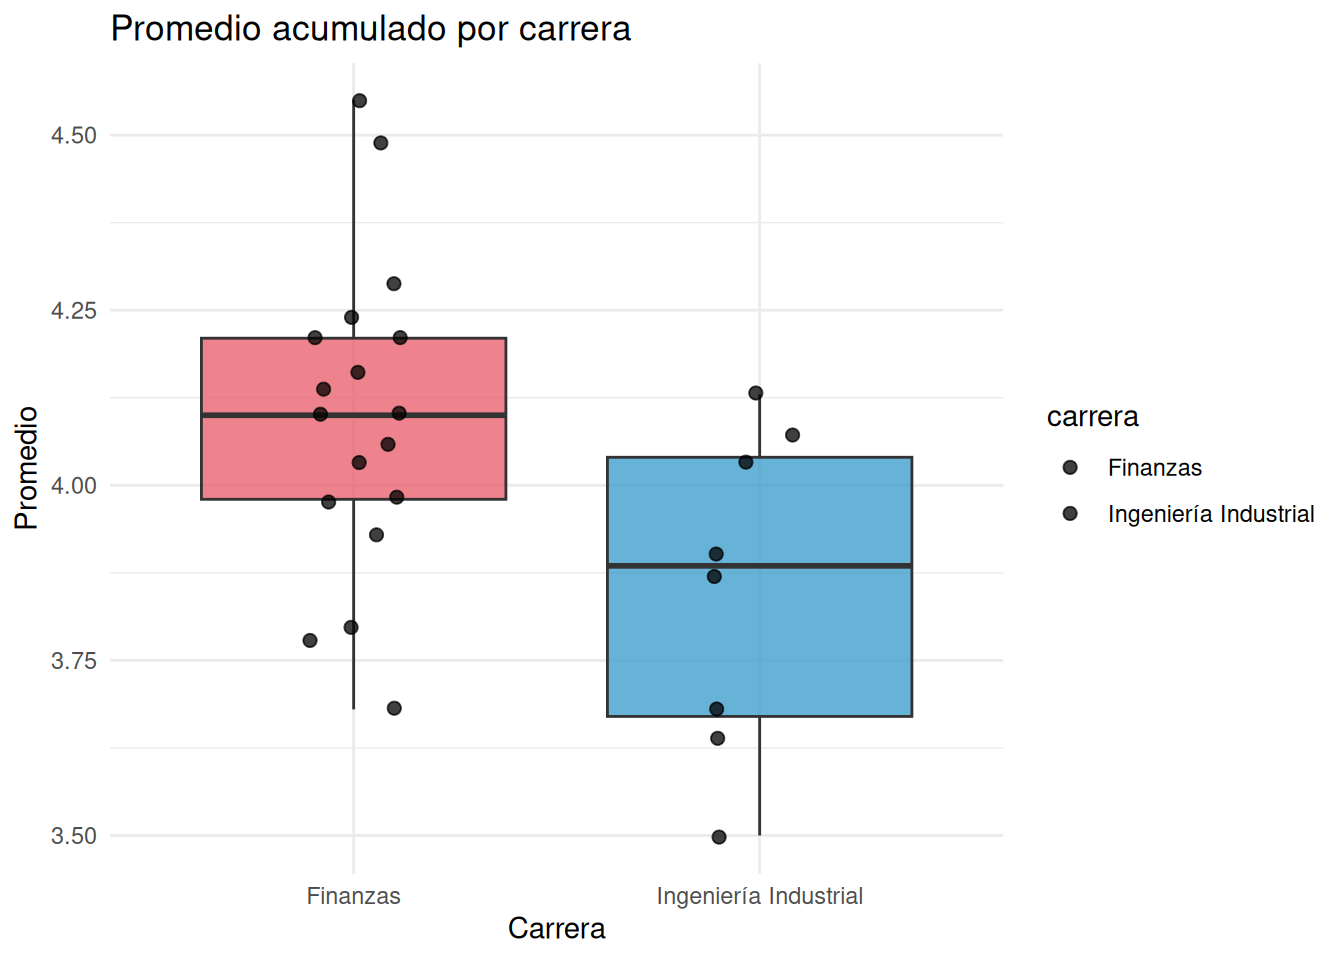
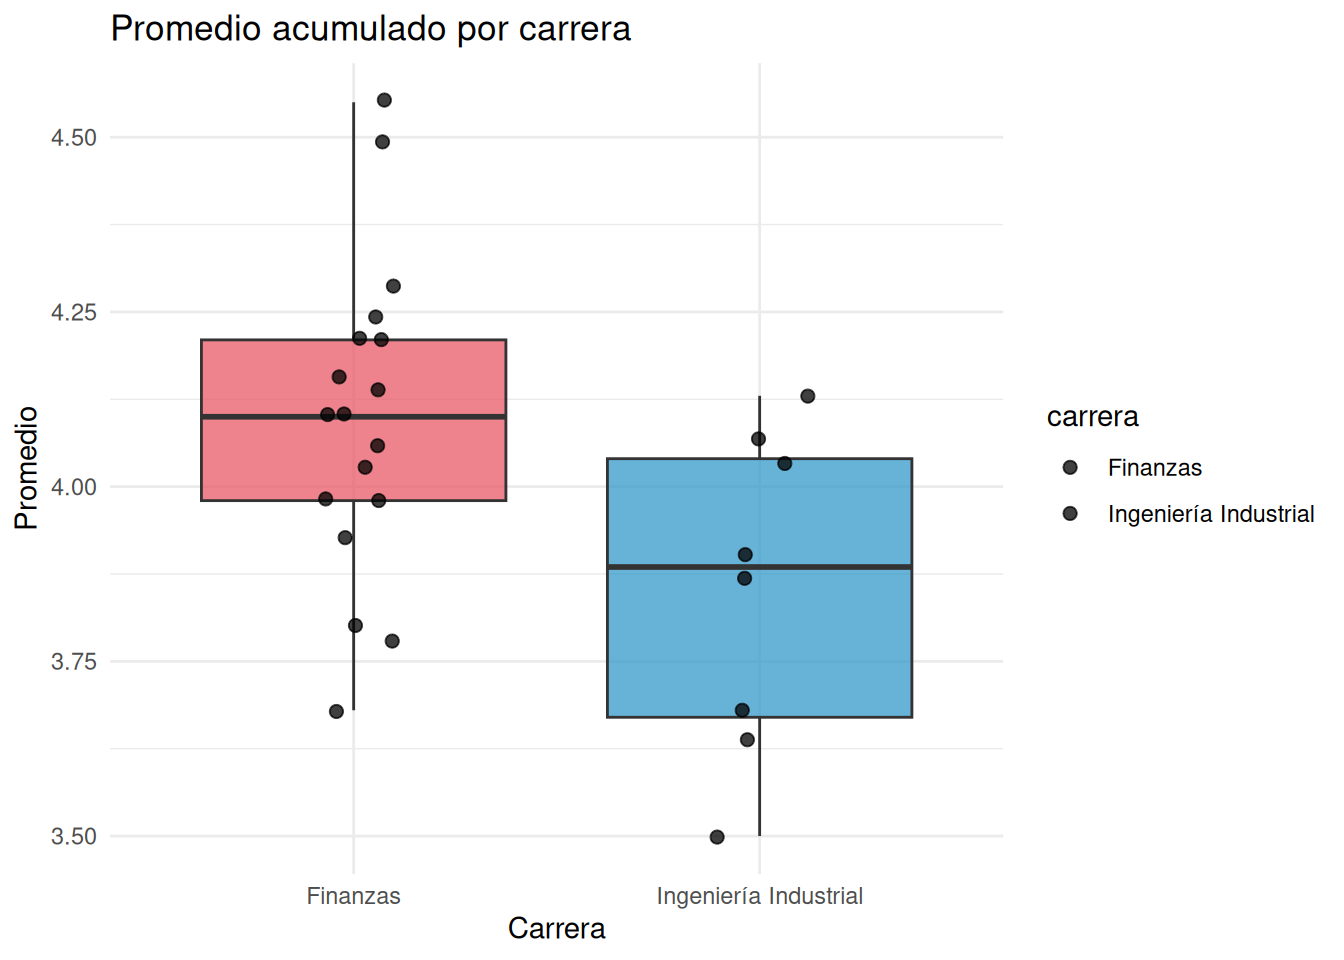
primera version 3

diff --git a/docs/basesdatos.html b/docs/basesdatos.html
@@ -423,8 +423,9 @@ largo y ancho de pétalos + especies: setosa, versicolor y virginica.
 Base de datos estadísticos se estructura mediante arreglo de filas y
 columnas (matriz) donde por lo general las columnas representan las
 variables y las filas los registros de los objetos de estudio</p>
-<em>Una base de datos es un conjunto de datos pertenecientes a un mismo
-contexto y almacenados sistemáticamente para su posterior uso.</em>
+<p><em>Una base de datos es un conjunto de datos pertenecientes a un
+mismo contexto y almacenados sistemáticamente para su posterior
+uso.</em></p>
 <div class="box2">
 <p>Wikipedia</p>
 <p>Una base de datos en estadística es un conjunto de información
@@ -481,8 +482,8 @@ Global Biodiversity Information Facility (GBIF)</a></p></li>
 <pre class="r"><code>data(iris)
 library(DT)
 DT::datatable(head(iris, 150),fillContainer = FALSE, options = list(pageLength = 8))</code></pre>
-<div class="datatables html-widget html-fill-item" id="htmlwidget-d6ad9c677977e4fc373c" style="width:100%;height:auto;"></div>
-<script type="application/json" data-for="htmlwidget-d6ad9c677977e4fc373c">{"x":{"filter":"none","vertical":false,"fillContainer":false,"data":[["1","2","3","4","5","6","7","8","9","10","11","12","13","14","15","16","17","18","19","20","21","22","23","24","25","26","27","28","29","30","31","32","33","34","35","36","37","38","39","40","41","42","43","44","45","46","47","48","49","50","51","52","53","54","55","56","57","58","59","60","61","62","63","64","65","66","67","68","69","70","71","72","73","74","75","76","77","78","79","80","81","82","83","84","85","86","87","88","89","90","91","92","93","94","95","96","97","98","99","100","101","102","103","104","105","106","107","108","109","110","111","112","113","114","115","116","117","118","119","120","121","122","123","124","125","126","127","128","129","130","131","132","133","134","135","136","137","138","139","140","141","142","143","144","145","146","147","148","149","150"],[5.1,4.9,4.7,4.6,5,5.4,4.6,5,4.4,4.9,5.4,4.8,4.8,4.3,5.8,5.7,5.4,5.1,5.7,5.1,5.4,5.1,4.6,5.1,4.8,5,5,5.2,5.2,4.7,4.8,5.4,5.2,5.5,4.9,5,5.5,4.9,4.4,5.1,5,4.5,4.4,5,5.1,4.8,5.1,4.6,5.3,5,7,6.4,6.9,5.5,6.5,5.7,6.3,4.9,6.6,5.2,5,5.9,6,6.1,5.6,6.7,5.6,5.8,6.2,5.6,5.9,6.1,6.3,6.1,6.4,6.6,6.8,6.7,6,5.7,5.5,5.5,5.8,6,5.4,6,6.7,6.3,5.6,5.5,5.5,6.1,5.8,5,5.6,5.7,5.7,6.2,5.1,5.7,6.3,5.8,7.1,6.3,6.5,7.6,4.9,7.3,6.7,7.2,6.5,6.4,6.8,5.7,5.8,6.4,6.5,7.7,7.7,6,6.9,5.6,7.7,6.3,6.7,7.2,6.2,6.1,6.4,7.2,7.4,7.9,6.4,6.3,6.1,7.7,6.3,6.4,6,6.9,6.7,6.9,5.8,6.8,6.7,6.7,6.3,6.5,6.2,5.9],[3.5,3,3.2,3.1,3.6,3.9,3.4,3.4,2.9,3.1,3.7,3.4,3,3,4,4.4,3.9,3.5,3.8,3.8,3.4,3.7,3.6,3.3,3.4,3,3.4,3.5,3.4,3.2,3.1,3.4,4.1,4.2,3.1,3.2,3.5,3.6,3,3.4,3.5,2.3,3.2,3.5,3.8,3,3.8,3.2,3.7,3.3,3.2,3.2,3.1,2.3,2.8,2.8,3.3,2.4,2.9,2.7,2,3,2.2,2.9,2.9,3.1,3,2.7,2.2,2.5,3.2,2.8,2.5,2.8,2.9,3,2.8,3,2.9,2.6,2.4,2.4,2.7,2.7,3,3.4,3.1,2.3,3,2.5,2.6,3,2.6,2.3,2.7,3,2.9,2.9,2.5,2.8,3.3,2.7,3,2.9,3,3,2.5,2.9,2.5,3.6,3.2,2.7,3,2.5,2.8,3.2,3,3.8,2.6,2.2,3.2,2.8,2.8,2.7,3.3,3.2,2.8,3,2.8,3,2.8,3.8,2.8,2.8,2.6,3,3.4,3.1,3,3.1,3.1,3.1,2.7,3.2,3.3,3,2.5,3,3.4,3],[1.4,1.4,1.3,1.5,1.4,1.7,1.4,1.5,1.4,1.5,1.5,1.6,1.4,1.1,1.2,1.5,1.3,1.4,1.7,1.5,1.7,1.5,1,1.7,1.9,1.6,1.6,1.5,1.4,1.6,1.6,1.5,1.5,1.4,1.5,1.2,1.3,1.4,1.3,1.5,1.3,1.3,1.3,1.6,1.9,1.4,1.6,1.4,1.5,1.4,4.7,4.5,4.9,4,4.6,4.5,4.7,3.3,4.6,3.9,3.5,4.2,4,4.7,3.6,4.4,4.5,4.1,4.5,3.9,4.8,4,4.9,4.7,4.3,4.4,4.8,5,4.5,3.5,3.8,3.7,3.9,5.1,4.5,4.5,4.7,4.4,4.1,4,4.4,4.6,4,3.3,4.2,4.2,4.2,4.3,3,4.1,6,5.1,5.9,5.6,5.8,6.6,4.5,6.3,5.8,6.1,5.1,5.3,5.5,5,5.1,5.3,5.5,6.7,6.9,5,5.7,4.9,6.7,4.9,5.7,6,4.8,4.9,5.6,5.8,6.1,6.4,5.6,5.1,5.6,6.1,5.6,5.5,4.8,5.4,5.6,5.1,5.1,5.9,5.7,5.2,5,5.2,5.4,5.1],[0.2,0.2,0.2,0.2,0.2,0.4,0.3,0.2,0.2,0.1,0.2,0.2,0.1,0.1,0.2,0.4,0.4,0.3,0.3,0.3,0.2,0.4,0.2,0.5,0.2,0.2,0.4,0.2,0.2,0.2,0.2,0.4,0.1,0.2,0.2,0.2,0.2,0.1,0.2,0.2,0.3,0.3,0.2,0.6,0.4,0.3,0.2,0.2,0.2,0.2,1.4,1.5,1.5,1.3,1.5,1.3,1.6,1,1.3,1.4,1,1.5,1,1.4,1.3,1.4,1.5,1,1.5,1.1,1.8,1.3,1.5,1.2,1.3,1.4,1.4,1.7,1.5,1,1.1,1,1.2,1.6,1.5,1.6,1.5,1.3,1.3,1.3,1.2,1.4,1.2,1,1.3,1.2,1.3,1.3,1.1,1.3,2.5,1.9,2.1,1.8,2.2,2.1,1.7,1.8,1.8,2.5,2,1.9,2.1,2,2.4,2.3,1.8,2.2,2.3,1.5,2.3,2,2,1.8,2.1,1.8,1.8,1.8,2.1,1.6,1.9,2,2.2,1.5,1.4,2.3,2.4,1.8,1.8,2.1,2.4,2.3,1.9,2.3,2.5,2.3,1.9,2,2.3,1.8],["setosa","setosa","setosa","setosa","setosa","setosa","setosa","setosa","setosa","setosa","setosa","setosa","setosa","setosa","setosa","setosa","setosa","setosa","setosa","setosa","setosa","setosa","setosa","setosa","setosa","setosa","setosa","setosa","setosa","setosa","setosa","setosa","setosa","setosa","setosa","setosa","setosa","setosa","setosa","setosa","setosa","setosa","setosa","setosa","setosa","setosa","setosa","setosa","setosa","setosa","versicolor","versicolor","versicolor","versicolor","versicolor","versicolor","versicolor","versicolor","versicolor","versicolor","versicolor","versicolor","versicolor","versicolor","versicolor","versicolor","versicolor","versicolor","versicolor","versicolor","versicolor","versicolor","versicolor","versicolor","versicolor","versicolor","versicolor","versicolor","versicolor","versicolor","versicolor","versicolor","versicolor","versicolor","versicolor","versicolor","versicolor","versicolor","versicolor","versicolor","versicolor","versicolor","versicolor","versicolor","versicolor","versicolor","versicolor","versicolor","versicolor","versicolor","virginica","virginica","virginica","virginica","virginica","virginica","virginica","virginica","virginica","virginica","virginica","virginica","virginica","virginica","virginica","virginica","virginica","virginica","virginica","virginica","virginica","virginica","virginica","virginica","virginica","virginica","virginica","virginica","virginica","virginica","virginica","virginica","virginica","virginica","virginica","virginica","virginica","virginica","virginica","virginica","virginica","virginica","virginica","virginica","virginica","virginica","virginica","virginica","virginica","virginica"]],"container":"<table class=\"display\">\n  <thead>\n    <tr>\n      <th> <\/th>\n      <th>Sepal.Length<\/th>\n      <th>Sepal.Width<\/th>\n      <th>Petal.Length<\/th>\n      <th>Petal.Width<\/th>\n      <th>Species<\/th>\n    <\/tr>\n  <\/thead>\n<\/table>","options":{"pageLength":8,"columnDefs":[{"className":"dt-right","targets":[1,2,3,4]},{"orderable":false,"targets":0},{"name":" ","targets":0},{"name":"Sepal.Length","targets":1},{"name":"Sepal.Width","targets":2},{"name":"Petal.Length","targets":3},{"name":"Petal.Width","targets":4},{"name":"Species","targets":5}],"order":[],"autoWidth":false,"orderClasses":false,"lengthMenu":[8,10,25,50,100]}},"evals":[],"jsHooks":[]}</script>
+<div class="datatables html-widget html-fill-item" id="htmlwidget-643c681a7478e5f594d4" style="width:100%;height:auto;"></div>
+<script type="application/json" data-for="htmlwidget-643c681a7478e5f594d4">{"x":{"filter":"none","vertical":false,"fillContainer":false,"data":[["1","2","3","4","5","6","7","8","9","10","11","12","13","14","15","16","17","18","19","20","21","22","23","24","25","26","27","28","29","30","31","32","33","34","35","36","37","38","39","40","41","42","43","44","45","46","47","48","49","50","51","52","53","54","55","56","57","58","59","60","61","62","63","64","65","66","67","68","69","70","71","72","73","74","75","76","77","78","79","80","81","82","83","84","85","86","87","88","89","90","91","92","93","94","95","96","97","98","99","100","101","102","103","104","105","106","107","108","109","110","111","112","113","114","115","116","117","118","119","120","121","122","123","124","125","126","127","128","129","130","131","132","133","134","135","136","137","138","139","140","141","142","143","144","145","146","147","148","149","150"],[5.1,4.9,4.7,4.6,5,5.4,4.6,5,4.4,4.9,5.4,4.8,4.8,4.3,5.8,5.7,5.4,5.1,5.7,5.1,5.4,5.1,4.6,5.1,4.8,5,5,5.2,5.2,4.7,4.8,5.4,5.2,5.5,4.9,5,5.5,4.9,4.4,5.1,5,4.5,4.4,5,5.1,4.8,5.1,4.6,5.3,5,7,6.4,6.9,5.5,6.5,5.7,6.3,4.9,6.6,5.2,5,5.9,6,6.1,5.6,6.7,5.6,5.8,6.2,5.6,5.9,6.1,6.3,6.1,6.4,6.6,6.8,6.7,6,5.7,5.5,5.5,5.8,6,5.4,6,6.7,6.3,5.6,5.5,5.5,6.1,5.8,5,5.6,5.7,5.7,6.2,5.1,5.7,6.3,5.8,7.1,6.3,6.5,7.6,4.9,7.3,6.7,7.2,6.5,6.4,6.8,5.7,5.8,6.4,6.5,7.7,7.7,6,6.9,5.6,7.7,6.3,6.7,7.2,6.2,6.1,6.4,7.2,7.4,7.9,6.4,6.3,6.1,7.7,6.3,6.4,6,6.9,6.7,6.9,5.8,6.8,6.7,6.7,6.3,6.5,6.2,5.9],[3.5,3,3.2,3.1,3.6,3.9,3.4,3.4,2.9,3.1,3.7,3.4,3,3,4,4.4,3.9,3.5,3.8,3.8,3.4,3.7,3.6,3.3,3.4,3,3.4,3.5,3.4,3.2,3.1,3.4,4.1,4.2,3.1,3.2,3.5,3.6,3,3.4,3.5,2.3,3.2,3.5,3.8,3,3.8,3.2,3.7,3.3,3.2,3.2,3.1,2.3,2.8,2.8,3.3,2.4,2.9,2.7,2,3,2.2,2.9,2.9,3.1,3,2.7,2.2,2.5,3.2,2.8,2.5,2.8,2.9,3,2.8,3,2.9,2.6,2.4,2.4,2.7,2.7,3,3.4,3.1,2.3,3,2.5,2.6,3,2.6,2.3,2.7,3,2.9,2.9,2.5,2.8,3.3,2.7,3,2.9,3,3,2.5,2.9,2.5,3.6,3.2,2.7,3,2.5,2.8,3.2,3,3.8,2.6,2.2,3.2,2.8,2.8,2.7,3.3,3.2,2.8,3,2.8,3,2.8,3.8,2.8,2.8,2.6,3,3.4,3.1,3,3.1,3.1,3.1,2.7,3.2,3.3,3,2.5,3,3.4,3],[1.4,1.4,1.3,1.5,1.4,1.7,1.4,1.5,1.4,1.5,1.5,1.6,1.4,1.1,1.2,1.5,1.3,1.4,1.7,1.5,1.7,1.5,1,1.7,1.9,1.6,1.6,1.5,1.4,1.6,1.6,1.5,1.5,1.4,1.5,1.2,1.3,1.4,1.3,1.5,1.3,1.3,1.3,1.6,1.9,1.4,1.6,1.4,1.5,1.4,4.7,4.5,4.9,4,4.6,4.5,4.7,3.3,4.6,3.9,3.5,4.2,4,4.7,3.6,4.4,4.5,4.1,4.5,3.9,4.8,4,4.9,4.7,4.3,4.4,4.8,5,4.5,3.5,3.8,3.7,3.9,5.1,4.5,4.5,4.7,4.4,4.1,4,4.4,4.6,4,3.3,4.2,4.2,4.2,4.3,3,4.1,6,5.1,5.9,5.6,5.8,6.6,4.5,6.3,5.8,6.1,5.1,5.3,5.5,5,5.1,5.3,5.5,6.7,6.9,5,5.7,4.9,6.7,4.9,5.7,6,4.8,4.9,5.6,5.8,6.1,6.4,5.6,5.1,5.6,6.1,5.6,5.5,4.8,5.4,5.6,5.1,5.1,5.9,5.7,5.2,5,5.2,5.4,5.1],[0.2,0.2,0.2,0.2,0.2,0.4,0.3,0.2,0.2,0.1,0.2,0.2,0.1,0.1,0.2,0.4,0.4,0.3,0.3,0.3,0.2,0.4,0.2,0.5,0.2,0.2,0.4,0.2,0.2,0.2,0.2,0.4,0.1,0.2,0.2,0.2,0.2,0.1,0.2,0.2,0.3,0.3,0.2,0.6,0.4,0.3,0.2,0.2,0.2,0.2,1.4,1.5,1.5,1.3,1.5,1.3,1.6,1,1.3,1.4,1,1.5,1,1.4,1.3,1.4,1.5,1,1.5,1.1,1.8,1.3,1.5,1.2,1.3,1.4,1.4,1.7,1.5,1,1.1,1,1.2,1.6,1.5,1.6,1.5,1.3,1.3,1.3,1.2,1.4,1.2,1,1.3,1.2,1.3,1.3,1.1,1.3,2.5,1.9,2.1,1.8,2.2,2.1,1.7,1.8,1.8,2.5,2,1.9,2.1,2,2.4,2.3,1.8,2.2,2.3,1.5,2.3,2,2,1.8,2.1,1.8,1.8,1.8,2.1,1.6,1.9,2,2.2,1.5,1.4,2.3,2.4,1.8,1.8,2.1,2.4,2.3,1.9,2.3,2.5,2.3,1.9,2,2.3,1.8],["setosa","setosa","setosa","setosa","setosa","setosa","setosa","setosa","setosa","setosa","setosa","setosa","setosa","setosa","setosa","setosa","setosa","setosa","setosa","setosa","setosa","setosa","setosa","setosa","setosa","setosa","setosa","setosa","setosa","setosa","setosa","setosa","setosa","setosa","setosa","setosa","setosa","setosa","setosa","setosa","setosa","setosa","setosa","setosa","setosa","setosa","setosa","setosa","setosa","setosa","versicolor","versicolor","versicolor","versicolor","versicolor","versicolor","versicolor","versicolor","versicolor","versicolor","versicolor","versicolor","versicolor","versicolor","versicolor","versicolor","versicolor","versicolor","versicolor","versicolor","versicolor","versicolor","versicolor","versicolor","versicolor","versicolor","versicolor","versicolor","versicolor","versicolor","versicolor","versicolor","versicolor","versicolor","versicolor","versicolor","versicolor","versicolor","versicolor","versicolor","versicolor","versicolor","versicolor","versicolor","versicolor","versicolor","versicolor","versicolor","versicolor","versicolor","virginica","virginica","virginica","virginica","virginica","virginica","virginica","virginica","virginica","virginica","virginica","virginica","virginica","virginica","virginica","virginica","virginica","virginica","virginica","virginica","virginica","virginica","virginica","virginica","virginica","virginica","virginica","virginica","virginica","virginica","virginica","virginica","virginica","virginica","virginica","virginica","virginica","virginica","virginica","virginica","virginica","virginica","virginica","virginica","virginica","virginica","virginica","virginica","virginica","virginica"]],"container":"<table class=\"display\">\n  <thead>\n    <tr>\n      <th> <\/th>\n      <th>Sepal.Length<\/th>\n      <th>Sepal.Width<\/th>\n      <th>Petal.Length<\/th>\n      <th>Petal.Width<\/th>\n      <th>Species<\/th>\n    <\/tr>\n  <\/thead>\n<\/table>","options":{"pageLength":8,"columnDefs":[{"className":"dt-right","targets":[1,2,3,4]},{"orderable":false,"targets":0},{"name":" ","targets":0},{"name":"Sepal.Length","targets":1},{"name":"Sepal.Width","targets":2},{"name":"Petal.Length","targets":3},{"name":"Petal.Width","targets":4},{"name":"Species","targets":5}],"order":[],"autoWidth":false,"orderClasses":false,"lengthMenu":[8,10,25,50,100]}},"evals":[],"jsHooks":[]}</script>
 <p><br/><br/></p>
 </div>
 <div id="etapas-del-proceso-de-datos" class="section level1">
@@ -604,13 +605,12 @@ El termino csv significa <em>“valores separados por comas”</em></p>
 <ul>
 <li><p>RStudio usando ventanas : <strong>File/ Import Dataset / From
 Text (base)…</strong></p></li>
-<li><p>RStudio usando comandos :</p>
+<li><p>RStudio usando comandos :</p></li>
+</ul>
 <div class="box4 with-label">
 <div class="label">
 Código R
 </div>
-</div></li>
-</ul>
 <pre>
 library(readr)
 casas <- read_delim("data/casas.csv", delim = ";", escape_double = FALSE, trim_ws = TRUE)
@@ -636,17 +636,21 @@ selecciones participantes.</p>
 <li><p>La base se puede consultar y descargar desde <a
 href="https://huggingface.co/datasets/Mominullptr/fifa-world-cup-2026-dataset/blob/main/squads_and_players.csv">Hugging
 Face</a>.</p></li>
+<li><p><a
+href="https://raw.githubusercontent.com/mominullptr/FIFA-World-Cup-2026-Dataset/main/squads_and_players.csv">Descargar
+<code>squads_and_players.csv</code> directamente desde GitHub</a>. Al
+abrir el enlace, se puede guardar el archivo con <strong>Ctrl+S</strong>
+o <strong>Guardar como</strong>.</p></li>
 <li><p>El archivo se descarga con el nombre
 <code>squads_and_players.csv</code> y se guarda en la carpeta
 <code>data/</code>.</p></li>
 <li><p>Finalmente se importa en RStudio con la función
-<code>read_csv()</code>.</p>
+<code>read_csv()</code>.</p></li>
+</ul>
 <div class="box4 with-label">
 <div class="label">
 Código R
 </div>
-</div></li>
-</ul>
 <pre>
 library(DT)
 fifa2026 <- read.csv("data/squads_and_players.csv")
@@ -668,14 +672,12 @@ Haga clic en el enlace de abajo y pruebe un ejemplo en vivo ahora
 mismo.</p>
 <p><a href="https://dev.socrata.com/"
 class="uri">https://dev.socrata.com/</a></p>
-Cargar la base de datos de COVID-19 Colombia
+<p>Cargar la base de datos de COVID-19 Colombia</p>
 <div class="box4 with-label">
 <div class="label">
 Código R
 </div>
 <pre>
-<br/><br/>
-
 # install.packages("RSocrata")
 
  library(RSocrata)
